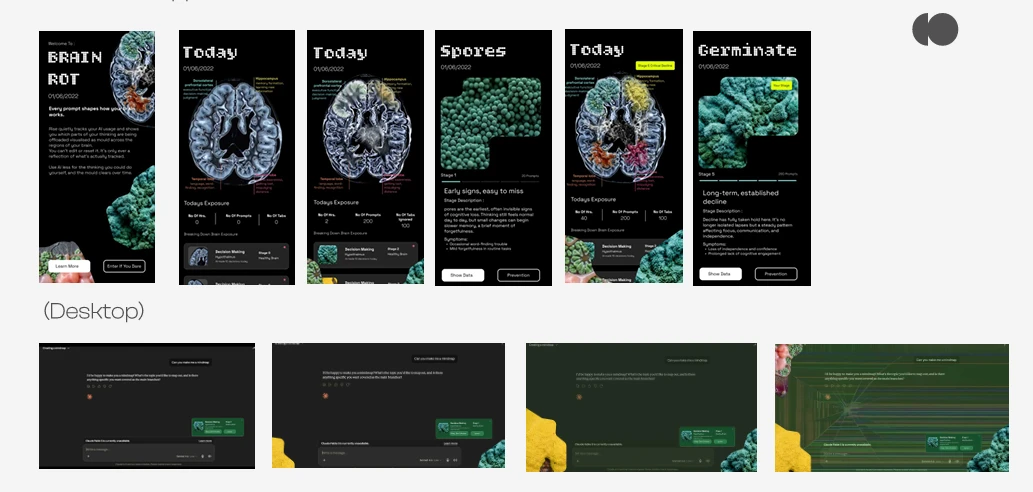
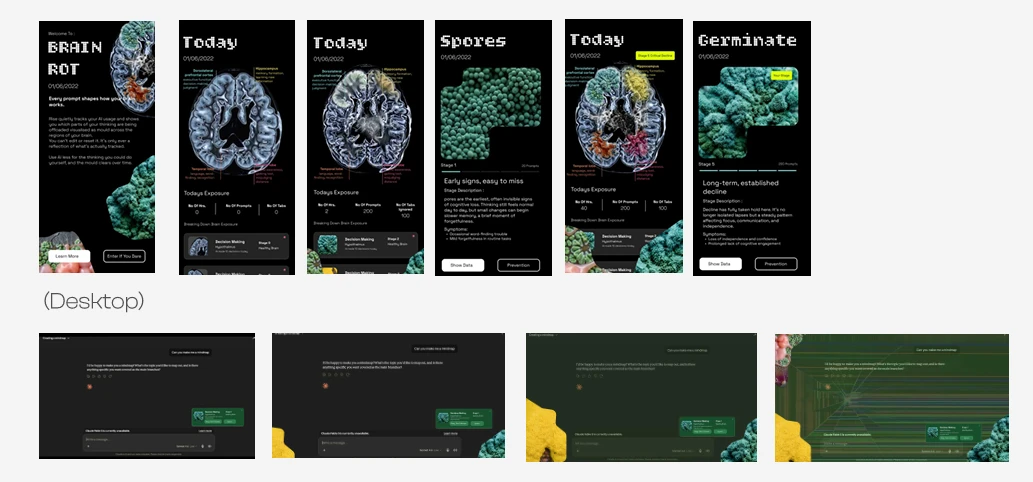
Cortexus: round 1 testing summary, plain workshop layout, clean Brain Rot image
Claude-Session: https://claude.ai/code/session_01SEotxCtiqrujWHDmSsEHZG

diff --git a/index.html b/index.html
@@ -1428,25 +1428,23 @@ body.zoom-open { overflow: hidden; }
 @media (max-width: 760px) { .pp-cols.arc-cols { grid-template-columns: minmax(0, 1fr); } }
 
 /* WORKSHOPS: why, what happened, findings, and where each finding went in the design */
-.ws { display: grid; gap: 26px; padding: clamp(20px, 3vw, 36px); background: #FFFFFF; border: 1px solid var(--panel-line); }
-.ws + .ws { margin-top: 8px; }
+.ws { display: grid; gap: 28px; padding-top: 24px; }
 .ws-head { display: grid; gap: 10px; }
 .ws-top { display: grid; grid-template-columns: minmax(0, 1fr) minmax(0, 1.1fr); gap: clamp(20px, 3.4vw, 44px); align-items: start; }
 .ws-img { margin: 0; aspect-ratio: 4 / 3; overflow: hidden; background: var(--panel); }
 .ws-img img { width: 100%; height: 100%; object-fit: cover; display: block; }
 .ws-why { display: grid; gap: 20px; }
-.ws-why p, .ws-find p, .ws-into p { margin: 6px 0 0; color: var(--muted); font-size: clamp(15.5px, 1.4vw, 17px); line-height: 1.7; }
-.ws-why .cs-label, .ws-find > .cs-label, .ws-into > .cs-label { font-size: 12.5px; color: var(--accent); }
-.ws-find, .ws-into { display: grid; gap: 16px; padding-top: 24px; border-top: 1px solid var(--line); }
-.ws-find-grid { display: grid; grid-template-columns: repeat(var(--c, 2), minmax(0, 1fr)); gap: 20px 40px; }
-.ws-find .cs-h4 { margin: 0; font-size: clamp(20px, 2vw, 23px); }
+.ws-why p, .ws-find p, .ws-into p { margin: 6px 0 0; color: var(--muted); font-size: clamp(16px, 1.6vw, 18px); line-height: 1.75; }
+.ws-find, .ws-into { display: grid; gap: 18px; }
+.ws-find-grid { display: grid; grid-template-columns: repeat(var(--c, 2), minmax(0, 1fr)); gap: 24px 48px; }
+.ws-find .cs-h4 { margin: 0; }
 .ws-quote { margin: 4px 0 0; padding: 0; border-left: 0; font-family: var(--serif-text); font-style: italic; font-size: clamp(19px, 2vw, 23px); line-height: 1.4; color: var(--ink); max-width: 40em; }
-.ws-into-grid { display: grid; grid-template-columns: repeat(var(--n), minmax(0, 1fr)); gap: 18px; }
+.ws-into-grid { display: grid; grid-template-columns: repeat(var(--n), minmax(0, 1fr)); gap: 24px; }
 .ws-into figure { margin: 0; display: grid; gap: 12px; align-content: start; }
-.ws-shot { aspect-ratio: 16 / 9; overflow: hidden; background: var(--panel); border: 1px solid var(--panel-line); }
+.ws-shot { aspect-ratio: 16 / 9; overflow: hidden; background: var(--panel); }
 .ws-shot img { width: 100%; height: 100%; object-fit: cover; object-position: top left; display: block; }
-.ws-into h4 { margin: 0; font-family: var(--serif-text); font-weight: 400; font-size: 19px; line-height: 1.3; color: var(--ink); }
-.ws-into p { margin-top: 4px; font-size: 15px; }
+.ws-into h4 { margin: 0; font-family: var(--serif-text); font-weight: 400; font-size: 21px; line-height: 1.3; color: var(--ink); }
+.ws-into p { margin-top: 4px; font-size: 16px; }
 @media (max-width: 860px) {
   .ws-top, .ws-find-grid { grid-template-columns: minmax(0, 1fr); }
   .ws-into-grid { grid-template-columns: minmax(0, 1fr); }
@@ -2016,22 +2014,23 @@ function cortexusBlocks() {
     ]},
 
     { type: "section", label: "Exploring directions", heading: "Speculative design: provoke, don't lecture.",
-      lead: "Because cognitive offloading is a future-facing problem, I chose speculative design to provoke reflection and productive discomfort. I explored four territories, then built two to test." },
+      lead: "Because cognitive offloading is a future-facing problem, I chose speculative design to provoke reflection and productive discomfort. I explored four directions." },
     { type: "board", kind: "gallery", caption: "Speculative moodboards: the four directions explored", c: 1, ratio: "1405 / 916", contain: true, images: [[p("directions"), ""]] },
-    { type: "board", kind: "gallery", caption: "Concept tested: Brain Rot, on mobile and desktop", c: 1, ratio: "1033 / 492", contain: true, images: [[p("brainrot-concept"), ""]] },
+    { type: "subsection", heading: "Round 1: two concepts into testing.",
+      lead: "I shared all four directions in an open discussion in the studio. Brain Rot and Distorting Relationships drew the strongest reactions, Brain Rot through disgust and Distorting Relationships through intrigue, so I took both into initial testing. They sit in different zones of the speculative design spectrum, Brain Rot in Possible and Distorting Relationships in Plausible, and work in opposite ways: aversion versus reflection. Testing both gave a real comparison of which one changes behaviour." },
+    { type: "board", kind: "gallery", caption: "Concept tested: Brain Rot, on mobile and desktop", c: 1, ratio: "1033 / 482", contain: true, images: [[p("brainrot-concept"), ""]] },
     { type: "board", kind: "gallery", caption: "Concept tested: Distorting Relationships", c: 1, ratio: "1359 / 774", contain: true, images: [[p("relationships-concept"), ""]] },
-    { type: "points", label: "Why Brain Rot?", items: [
-      { title: "It changed behaviour", text: "\"As you're showing me the idea, I'm reflecting on my own use.\" The other concept was \"more of a talking point\"." },
-      { title: "It was unlike anything else", text: "A garden version tested equally well, but felt like apps already on the market." },
+    { type: "points", label: "What round 1 showed", items: [
+      { title: "Brain Rot changed behaviour", text: "\"As you're showing me the idea, I'm reflecting on my own use.\" Distorting Relationships was \"more of a talking point\"." },
       { title: "It tied to how it feels", text: "Designers described heavy AI use as \"brain breaking\" and feeling \"like a zombie\"." },
     ]},
 
     { type: "section", label: "Co-designing", count: "14 designers", heading: "Two workshops, two questions only designers could answer.",
-      lead: "Designers were the users, so the big decisions shouldn't be mine alone. The first workshop decided which direction to build. The second decided what Cortexus should protect, and how it should behave." },
+      lead: "Designers were the users, so the big decisions shouldn't be mine alone. The critique workshop was a second round of concept testing, to decide which direction to build. The reflective workshop decided what Cortexus should protect, and how it should behave." },
     { type: "workshop", tag: "Workshop 1 · Critique", count: "10 designers", title: "Mould or garden: which one makes you think?",
       image: p("critique"), alt: "Shannen presenting the mould and garden concepts to Accenture designers at the critique workshop",
       parts: [
-        ["Why", "Two directions had tested equally well with designers: mould growing on a brain scan, and a garden that grows when you practise. I couldn't pick on my own preference, so I asked the people it was for."],
+        ["Why", "Brain Rot came out of round 1 strongest, but a garden version, where skills grow when you practise, had tested equally well. I couldn't pick on my own preference, so I asked the people it was for."],
         ["What happened", "I presented both concepts to ten Accenture designers and asked them to critique each one: how it made them feel, whether it would change what they did, and which they'd actually keep using."],
       ],
       findings: [
